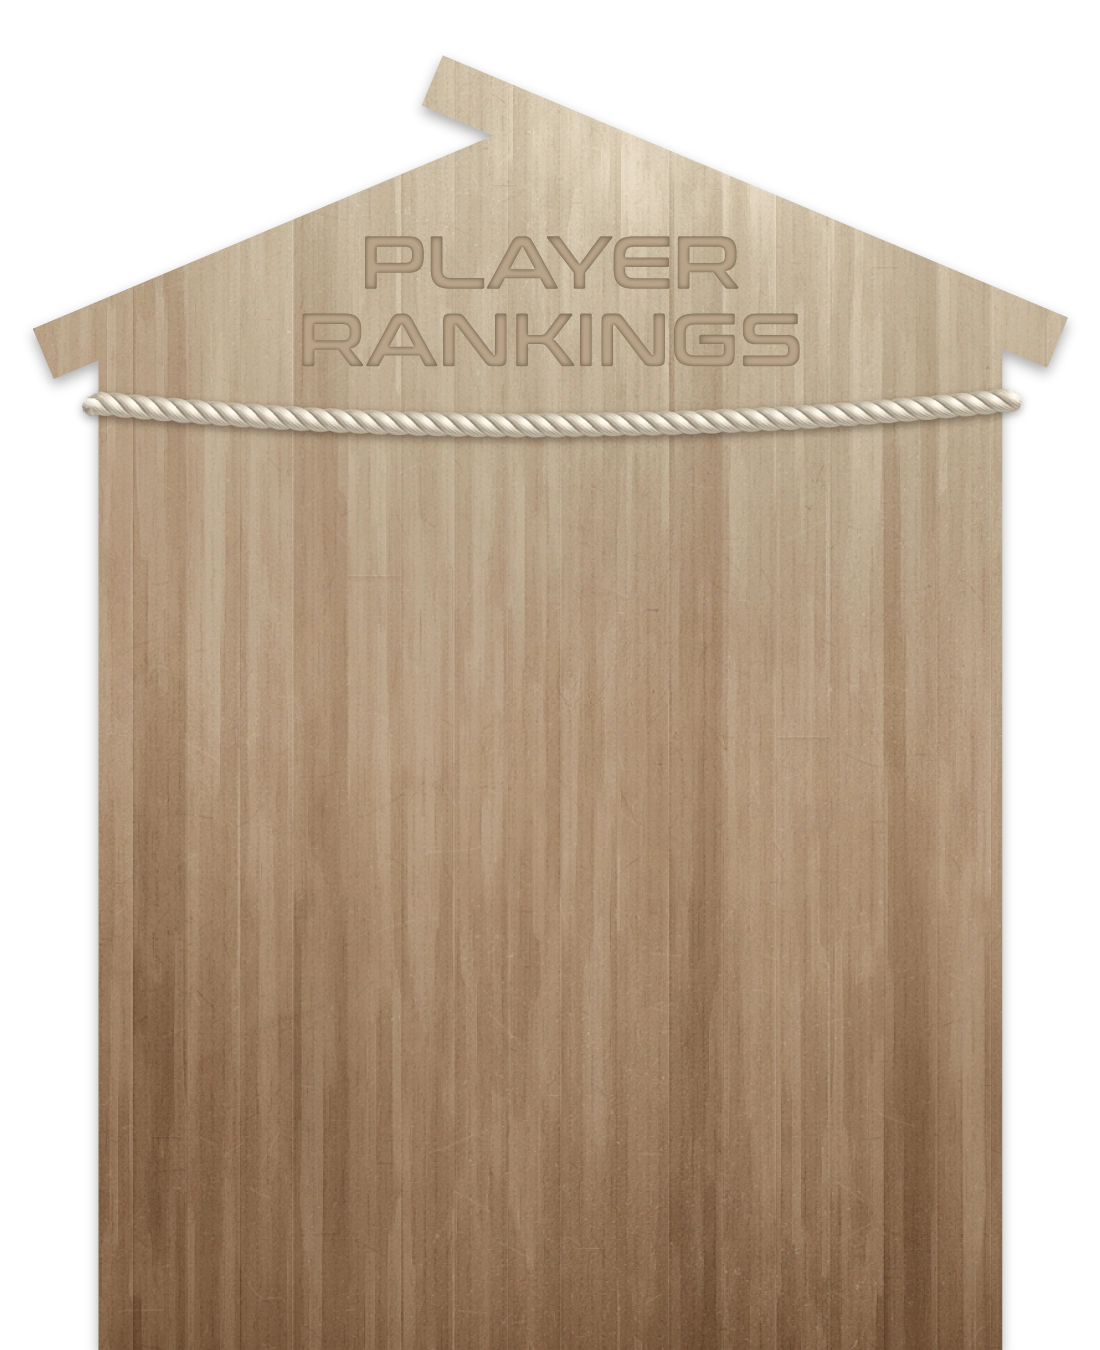
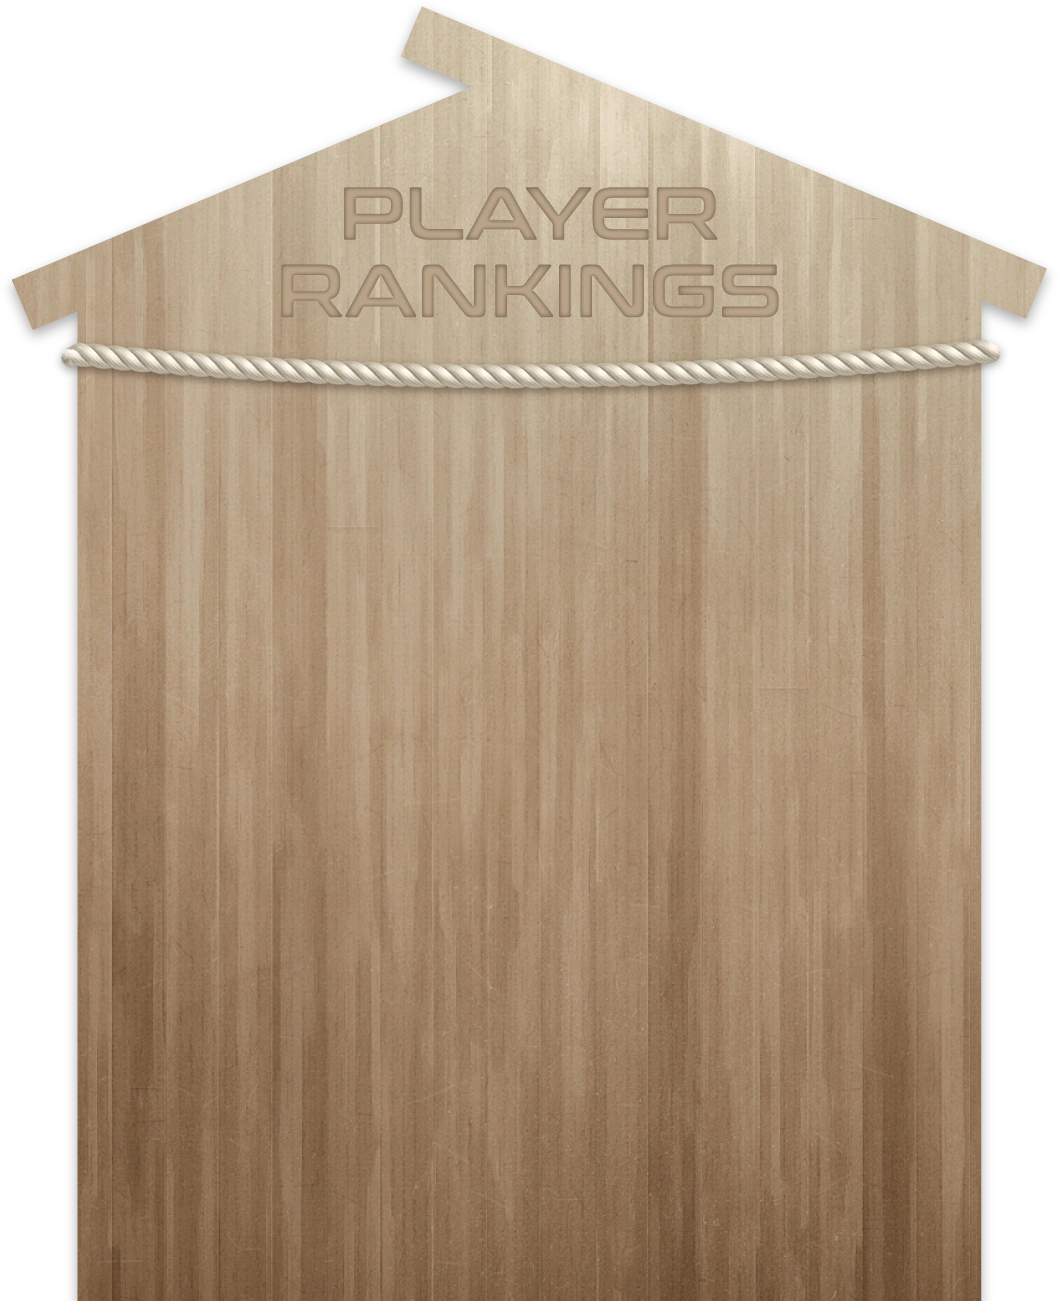
New banzuke bg and mobile tweaks

diff --git a/scss/index.scss b/scss/index.scss
@@ -57,13 +57,13 @@
 
 
     #leaderboard {
-        padding-top: 34.18%; // percentage of bg image *width*
+        padding-top: calc(36.36% + 2px); // percentage of bg image *width*
         padding-left: 10%;
         padding-right: 10%;
         padding-bottom: 0;
         margin-bottom: 0;
         // compute height based on aspect ratio of bg image
-        height: calc(min(100vw, var(--content-max-width)) * 1.229);
+        height: calc(min(100vw, var(--content-max-width)) * 1.2273);
 
         > .background > img {
             position: absolute;
@@ -82,9 +82,9 @@
             position: absolute;
             width: 100%;
             left: 0;
-            top: 26.99%;
-            height: 38.43%;
-            background-image: url(/static/img2/2021-Player-Rankings-mask.png);
+            top: 29.63%;
+            height: 4.545%;
+            background-image: url(/static/img2/2021-Player-Rankings2-mask.png);
             background-size: contain;
             background-repeat: no-repeat;
         }
@@ -93,7 +93,11 @@
             width: 100%;
             height: 100%;
             overflow-y: scroll;
-            padding: 2em 1em;
+            padding: 2em 10%;
+
+            @media (max-width: media.$narrow) {
+                padding: 2em 5%;
+            }
         }
 
         .grid {
@@ -103,6 +107,7 @@
             border-bottom: 1px solid var(--color-border);
             padding-bottom: 1em;
             margin-bottom: 1em;
+            column-gap: 1em;
 
             .group {
                 &.e {
@@ -117,7 +122,19 @@
                 }
 
                 h3 {
-                    text-align: left;
+                    text-align: center;
+                    margin: 1em 0 0.25em;
+
+                    &.wide {
+                        @media (max-width: media.$narrow) {
+                            display: none;
+                        }
+                    }
+                    &.narrow {
+                        @media (min-width: media.$wide) {
+                            display: none;
+                        }
+                    }
                 }
 
                 .players {

diff --git a/templates/index.html b/templates/index.html
@@ -53,15 +53,16 @@
 
     <section id="leaderboard">
         <picture class="background">
-            <source src="/static/img2/2021-Player-Rankings.webp" type="image/webp">
-            <img src="/static/img2/2021-Player-Rankings.png" width="1059" height="1301">
+            <source src="/static/img2/2021-Player-Rankings2.webp" type="image/webp">
+            <img src="/static/img2/2021-Player-Rankings2.png" width="1100" height="1350">
         </picture>
         
         <div class="scroll-container">
             <div class="grid">
             {% for (rank, players) in self.leaders_by_rank() %}
                 <div class="group {{rank.side}}">
-                    <h3>{{"{:#}"|format(rank)}}</h3>
+                    <h3 class="wide">{{"{:#}"|format(rank)}}</h3>
+                    <h3 class="narrow">{{rank}}</h3>
                     <ol class="players">
                     {% for player in players %}
                         <li>
